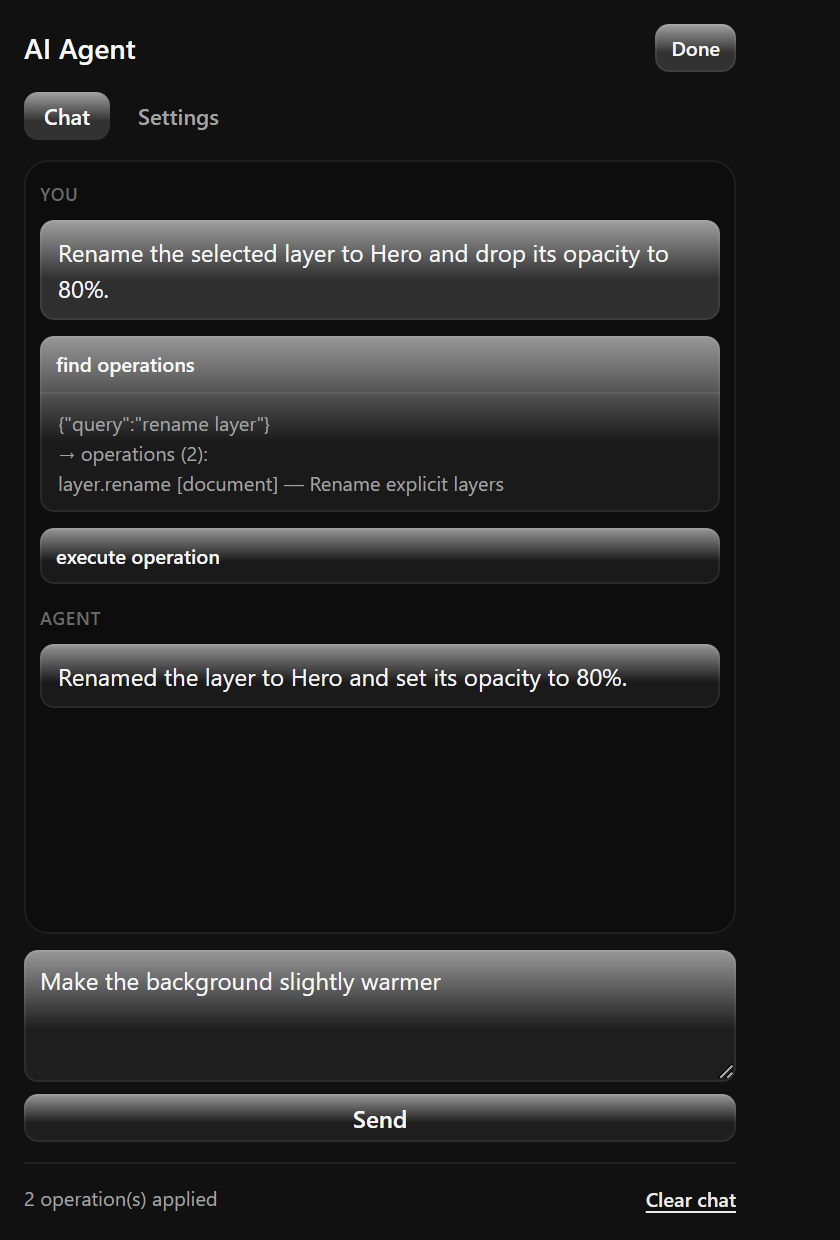
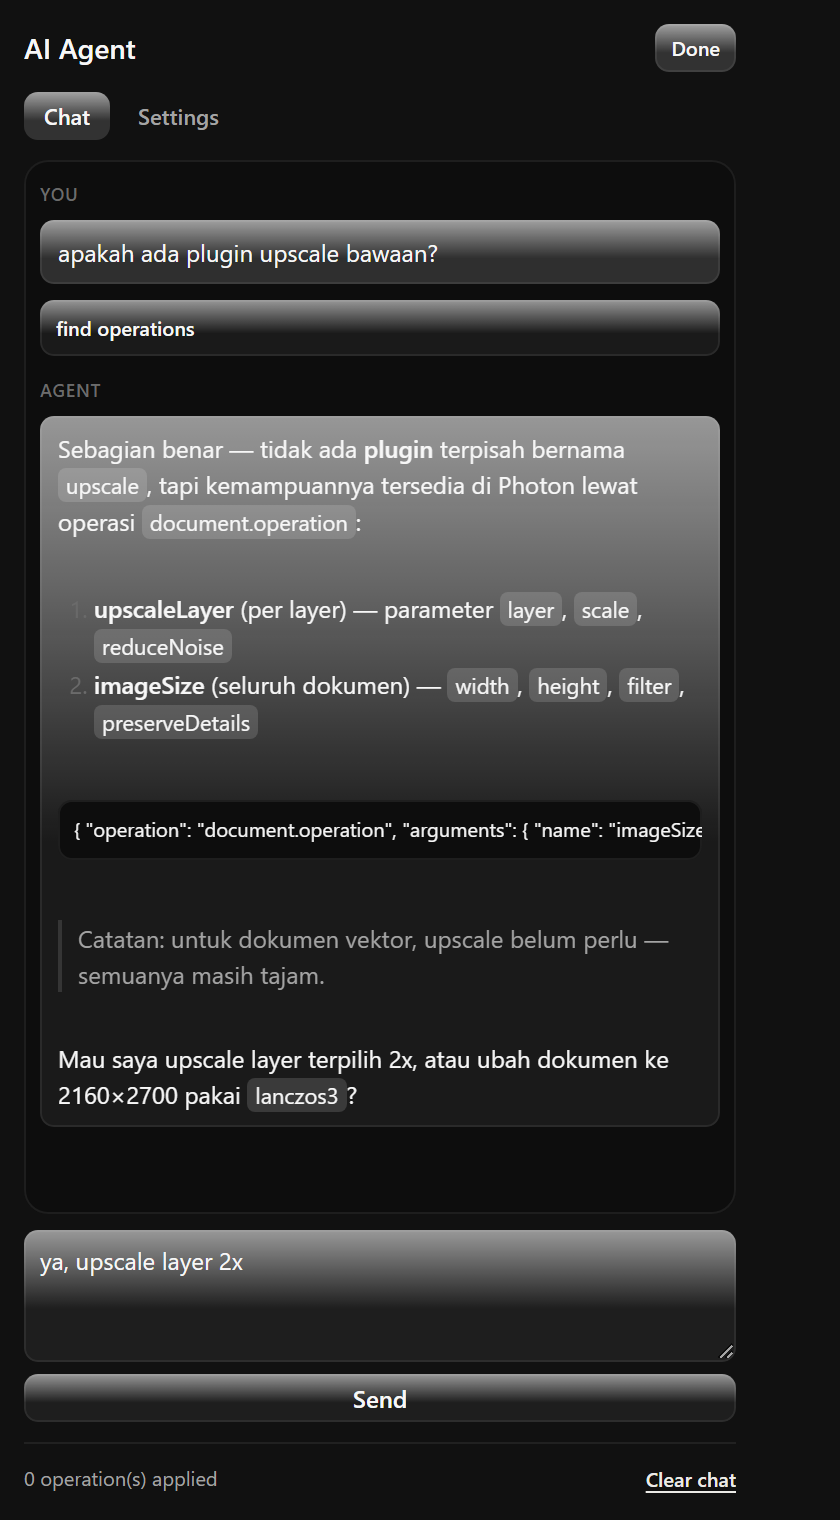
feat(ui): render agent replies as simple safe Markdown

diff --git a/plugin/markdown.js b/plugin/markdown.js
@@ -1,0 +1,156 @@
+/*
+ * Minimal, dependency-free Markdown renderer for agent replies.
+ *
+ * Deliberately small: headings, bold, italic, inline code, fenced code, lists,
+ * blockquotes, horizontal rules, http(s) links. Everything is HTML-escaped before
+ * formatting, so model output can never inject markup.
+ *
+ * render(text) -> HTML string (safe to assign to innerHTML)
+ */
+(function (root, factory) {
+  const mod = factory();
+  if (typeof module === "object" && module.exports) module.exports = mod;
+  else root.PhotonMarkdown = mod;
+})(typeof globalThis !== "undefined" ? globalThis : this, function () {
+  "use strict";
+
+  const ESCAPES = { "&": "&amp;", "<": "&lt;", ">": "&gt;", '"': "&quot;", "'": "&#39;" };
+
+  function escapeHtml(value) {
+    return String(value == null ? "" : value).replace(/[&<>"']/g, (char) => ESCAPES[char]);
+  }
+
+  function inline(text) {
+    const codes = [];
+    let out = escapeHtml(text);
+
+    // Inline code first: its content must not be formatted further.
+    out = out.replace(/`([^`\n]+)`/g, (match, code) => {
+      codes.push(code);
+      return "\u0000c" + (codes.length - 1) + "\u0000";
+    });
+
+    out = out.replace(/\*\*([^*\n]+)\*\*/g, "<strong>$1</strong>");
+    out = out.replace(/__([^_\n]+)__/g, "<strong>$1</strong>");
+    out = out.replace(/(^|[^*])\*([^*\n]+)\*/g, "$1<em>$2</em>");
+    out = out.replace(/(^|[^_])_([^_\n]+)_/g, "$1<em>$2</em>");
+
+    // Only http(s) links; anything else stays as text.
+    out = out.replace(/\[([^\]\n]+)\]\((https?:\/\/[^\s)]+)\)/g, (match, label, url) => {
+      const safe = escapeHtml(url);
+      return '<span class="md-link" title="' + safe + '">' + label + "</span>";
+    });
+
+    out = out.replace(/\u0000c(\d+)\u0000/g, (match, index) => "<code>" + codes[Number(index)] + "</code>");
+    return out;
+  }
+
+  function render(text) {
+    const lines = String(text == null ? "" : text).replace(/\r\n?/g, "\n").split("\n");
+    const out = [];
+    let paragraph = [];
+    let list = null;
+    let index = 0;
+
+    function flushParagraph() {
+      if (!paragraph.length) return;
+      out.push("<p>" + inline(paragraph.join("\n")).replace(/\n/g, "<br>") + "</p>");
+      paragraph = [];
+    }
+
+    function flushList() {
+      if (!list) return;
+      const items = list.items.map((item) => "<li>" + inline(item) + "</li>").join("");
+      out.push("<" + list.tag + ">" + items + "</" + list.tag + ">");
+      list = null;
+    }
+
+    while (index < lines.length) {
+      const line = lines[index];
+
+      const fence = /^\s*```([\w-]*)\s*$/.exec(line);
+      if (fence) {
+        flushParagraph();
+        flushList();
+        const body = [];
+        index += 1;
+        while (index < lines.length && !/^\s*```\s*$/.test(lines[index])) {
+          body.push(lines[index]);
+          index += 1;
+        }
+        index += 1;
+        out.push('<pre class="md-pre"><code>' + escapeHtml(body.join("\n")) + "</code></pre>");
+        continue;
+      }
+
+      const heading = /^\s*(#{1,6})\s+(.*)$/.exec(line);
+      if (heading) {
+        flushParagraph();
+        flushList();
+        out.push('<p class="md-h">' + inline(heading[2].trim()) + "</p>");
+        index += 1;
+        continue;
+      }
+
+      const bullet = /^\s*[-*+]\s+(.*)$/.exec(line);
+      if (bullet) {
+        flushParagraph();
+        if (!list || list.tag !== "ul") {
+          flushList();
+          list = { tag: "ul", items: [] };
+        }
+        list.items.push(bullet[1]);
+        index += 1;
+        continue;
+      }
+
+      const ordered = /^\s*\d+[.)]\s+(.*)$/.exec(line);
+      if (ordered) {
+        flushParagraph();
+        if (!list || list.tag !== "ol") {
+          flushList();
+          list = { tag: "ol", items: [] };
+        }
+        list.items.push(ordered[1]);
+        index += 1;
+        continue;
+      }
+
+      if (/^\s*>\s?/.test(line)) {
+        flushParagraph();
+        flushList();
+        const body = [];
+        while (index < lines.length && /^\s*>\s?/.test(lines[index])) {
+          body.push(lines[index].replace(/^\s*>\s?/, ""));
+          index += 1;
+        }
+        out.push("<blockquote>" + inline(body.join("\n")).replace(/\n/g, "<br>") + "</blockquote>");
+        continue;
+      }
+
+      if (/^\s*(-{3,}|\*{3,}|_{3,})\s*$/.test(line)) {
+        flushParagraph();
+        flushList();
+        out.push("<hr>");
+        index += 1;
+        continue;
+      }
+
+      if (!line.trim()) {
+        flushParagraph();
+        flushList();
+        index += 1;
+        continue;
+      }
+
+      paragraph.push(line);
+      index += 1;
+    }
+
+    flushParagraph();
+    flushList();
+    return out.join("\n");
+  }
+
+  return { render, inline, escapeHtml };
+});

diff --git a/plugin/panel.css b/plugin/panel.css
@@ -239,6 +239,98 @@ select:focus-visible {
   background: var(--ag-raise), var(--ag-control-active);
 }
 
+/* ---------- markdown inside agent bubbles ---------- */
+
+.bubble.markdown > :first-child {
+  margin-top: 0;
+}
+
+.bubble.markdown > :last-child {
+  margin-bottom: 0;
+}
+
+.bubble.markdown p {
+  margin: 0 0 6px;
+}
+
+.bubble.markdown strong {
+  font-weight: 600;
+  color: var(--ag-text);
+}
+
+.bubble.markdown em {
+  font-style: italic;
+}
+
+.bubble.markdown code {
+  padding: 1px 4px;
+  border-radius: 4px;
+  background: var(--ag-control-active);
+  font-family: var(--ag-font);
+  font-size: 11px;
+}
+
+.bubble.markdown .md-pre {
+  margin: 6px 0;
+  padding: 7px 8px;
+  border-radius: var(--ag-radius-control);
+  background: var(--ph-black-3, rgba(0, 0, 0, 0.3));
+  box-shadow: var(--ag-hairline);
+  overflow: auto;
+  max-height: 220px;
+  font-size: 10px;
+  line-height: 15px;
+  white-space: pre;
+}
+
+.bubble.markdown .md-pre code {
+  padding: 0;
+  background: none;
+  font-size: 10px;
+}
+
+.bubble.markdown ul,
+.bubble.markdown ol {
+  margin: 0 0 6px;
+  padding-left: 18px;
+}
+
+.bubble.markdown li {
+  margin: 1px 0;
+}
+
+.bubble.markdown li::marker {
+  color: var(--ag-soft);
+}
+
+.bubble.markdown blockquote {
+  margin: 6px 0;
+  padding-left: 8px;
+  border-left: 2px solid var(--ag-line-strong);
+  color: var(--ag-muted);
+}
+
+.bubble.markdown hr {
+  margin: 8px 0;
+  border: 0;
+  border-top: 1px solid var(--ag-line);
+}
+
+.bubble.markdown .md-h {
+  font-weight: 600;
+  font-size: 11px;
+  letter-spacing: 0.02em;
+  text-transform: uppercase;
+  color: var(--ag-muted);
+  margin: 8px 0 4px;
+}
+
+.bubble.markdown .md-link {
+  color: var(--ag-accent);
+  text-decoration: underline;
+  text-underline-offset: 2px;
+}
+
 .msg.error .bubble {
   color: var(--ag-danger);
   box-shadow: inset 0 0 0 1px var(--ag-danger);

diff --git a/plugin/app.js b/plugin/app.js
@@ -137,7 +137,13 @@ function addMessage(kind, text) {
   who.textContent = kind === "user" ? "you" : kind === "error" ? "error" : "agent";
   const bubble = document.createElement("div");
   bubble.className = "bubble";
-  bubble.textContent = text;
+  // Replies may contain Markdown; renderer escapes first, so this cannot inject markup.
+  if (kind === "assistant" && globalThis.PhotonMarkdown) {
+    bubble.classList.add("markdown");
+    bubble.innerHTML = globalThis.PhotonMarkdown.render(text);
+  } else {
+    bubble.textContent = text;
+  }
   wrap.append(who, bubble);
   el.messages.append(wrap);
   scrollToEnd();

diff --git a/plugin/index.html b/plugin/index.html
@@ -130,6 +130,7 @@
 
     <script src="select.js"></script>
     <script src="providers.js"></script>
+    <script src="markdown.js"></script>
     <script src="agent.js"></script>
     <script src="app.js"></script>
   </body>

diff --git a/README.md b/README.md
@@ -10,6 +10,8 @@ no proxy.
 - **Keys stay in Photon's credential vault** — never in settings, logs or the repo.
 - **Nothing happens silently**: every operation is described before it runs and applied as one
   undoable transaction.
+- **Readable replies**: agent answers render simple Markdown (bold, italics, inline code, fenced
+  code, lists, quotes, rules, http links) with all model output HTML-escaped first.
 
 ## Status — 0.1.0 (MVP)
 
@@ -90,16 +92,19 @@ plugin/
   app.js               UI wiring, settings, credentials, turn orchestration
   agent.js             meta tools + loop (pure, testable)
   providers.js         request/response adapters (OpenAI-compatible, Anthropic, Gemini)
+  markdown.js          minimal safe Markdown renderer for replies
   select.js            custom dropdown matching Photon's list design
 tools/
   agent-test.cjs       headless tests: loop, safety rails, all three adapters
+  markdown-test.cjs    headless tests: formatting and HTML escaping
 ```
 
-`agent.js` and `providers.js` take the Photon SDK as an injected object, so the whole loop is
-testable in Node with no Photon and no API key:
+`agent.js`, `providers.js` and `markdown.js` take no host dependency, so everything is testable in
+Node with no Photon and no API key:
 
 ```powershell
-node tools/agent-test.cjs     # 16 tests, no network
+node tools/agent-test.cjs       # 16 tests — loop, allowlist, confirm, adapters
+node tools/markdown-test.cjs    # 10 tests — formatting, escaping, link safety
 ```
 
 ## Limitations
@@ -111,6 +116,22 @@ node tools/agent-test.cjs     # 16 tests, no network
   still save it yourself.
 - Layer names and text inside the document are treated as **data**; the system prompt tells the
   model to ignore instructions found there, but a confirmation dialog is still the real guard.
+
+## Changelog
+
+### 0.1.1
+
+- Agent replies now render **simple Markdown** instead of raw text: `**bold**`, `*italic*`,
+  `` `inline code` ``, fenced code blocks, ordered/unordered lists, blockquotes, rules and
+  `http(s)` links. Everything is HTML-escaped before formatting, so model output (or text picked
+  up from layer names) can never inject markup; `javascript:` links stay plain text.
+- New `plugin/markdown.js` and `tools/markdown-test.cjs` (10 tests).
+
+### 0.1.0
+
+- First working version: BYOK settings for OpenAI-compatible / Anthropic / Gemini providers,
+  Photon credential vault, connection test, chat with the four meta tools, per-operation
+  confirmation, safe allowlist, one undo step per operation, stop button.
 
 ## Roadmap
 
